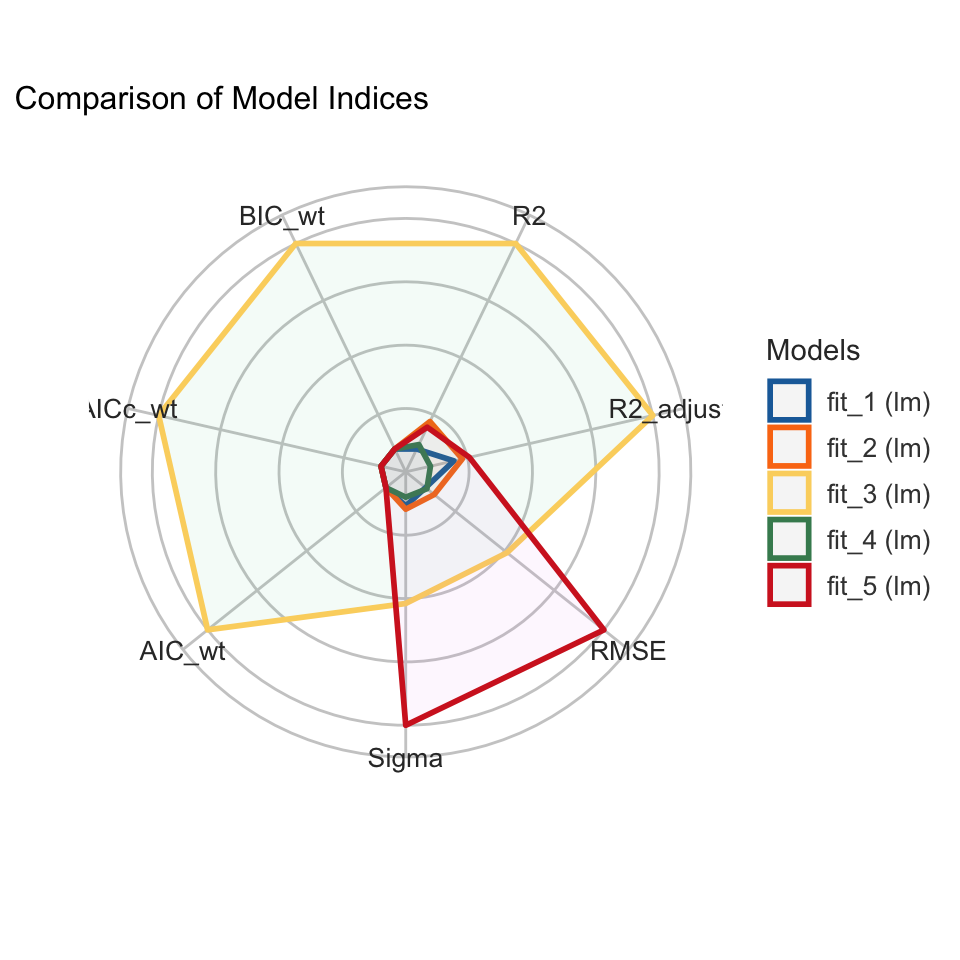
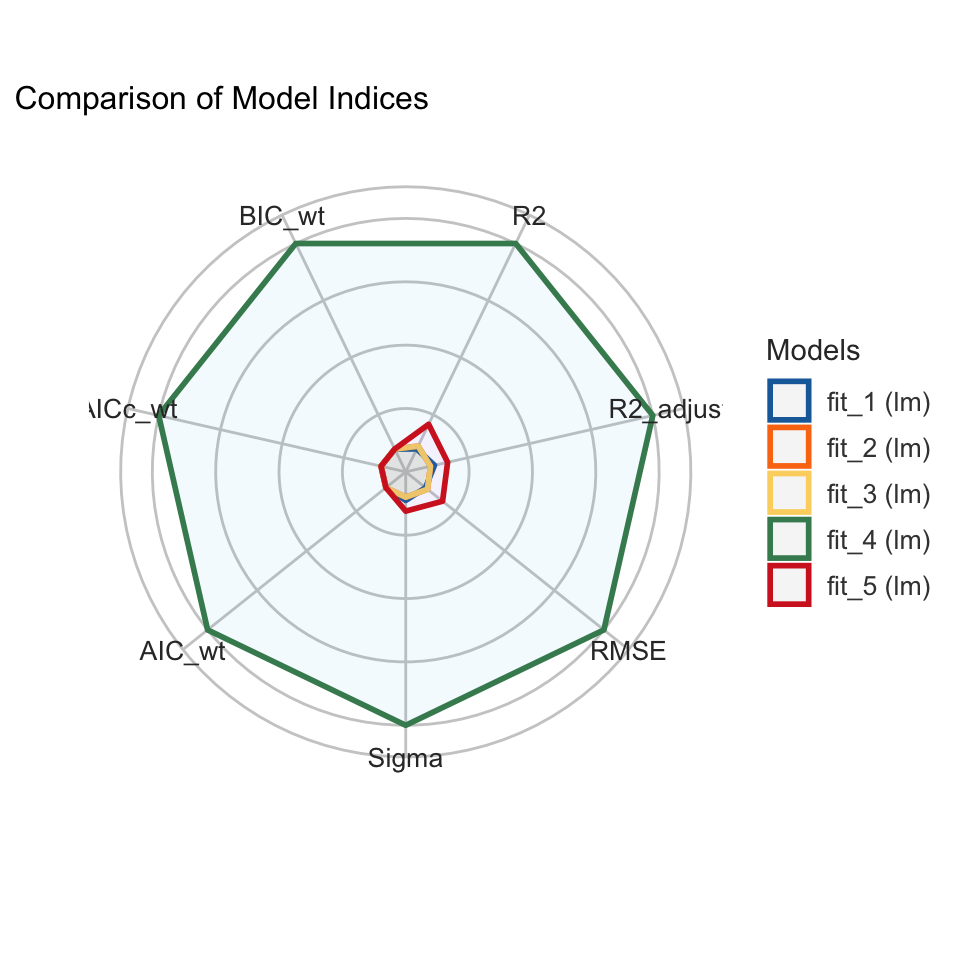
added

diff --git a/docs/stat-modeling-basic.html b/docs/stat-modeling-basic.html
@@ -898,7 +898,7 @@ window.Quarto = {
 </header>
 
 
-<p><em>Letzte Änderung am 06. August 2025 um 09:29:30</em></p>
+<p><em>Letzte Änderung am 06. August 2025 um 10:51:52</em></p>
 <blockquote class="blockquote">
 <p><em>“All models are approximations. Essentially, all models are wrong, but some are useful. However, the approximate nature of the model must always be borne in mind.” — George E. P. Box</em></p>
 </blockquote>
@@ -3692,10 +3692,10 @@ Abbildung&nbsp;45.26— Graphische Darstellung des VIF mit der Funktion <code>ch
 <details open="" class="code-fold">
 <summary>R Code [zeigen / verbergen]</summary>
 <div class="sourceCode cell-code" id="cb118"><pre class="sourceCode r code-with-copy"><code class="sourceCode r"><span id="cb118-1"><a href="#cb118-1" aria-hidden="true" tabindex="-1"></a>fit_1 <span class="ot">&lt;-</span> <span class="fu">lm</span>(jump_length <span class="sc">~</span> feeding, <span class="at">data =</span> flea_model_tbl)</span>
-<span id="cb118-2"><a href="#cb118-2" aria-hidden="true" tabindex="-1"></a>fit_2 <span class="ot">&lt;-</span> <span class="fu">lm</span>(jump_length <span class="sc">~</span> feeding <span class="sc">+</span> stage <span class="sc">+</span> feeding<span class="sc">:</span>stage, <span class="at">data =</span> flea_model_tbl)</span>
-<span id="cb118-3"><a href="#cb118-3" aria-hidden="true" tabindex="-1"></a>fit_3 <span class="ot">&lt;-</span> <span class="fu">lm</span>(jump_length <span class="sc">~</span> feeding <span class="sc">+</span> weight <span class="sc">+</span> count_leg, <span class="at">data =</span> flea_model_tbl)</span>
-<span id="cb118-4"><a href="#cb118-4" aria-hidden="true" tabindex="-1"></a>fit_4 <span class="ot">&lt;-</span> <span class="fu">lm</span>(jump_length <span class="sc">~</span> feeding <span class="sc">+</span> stage <span class="sc">+</span> M <span class="sc">+</span> CRP <span class="sc">+</span> Mg, <span class="at">data =</span> flea_model_tbl)</span>
-<span id="cb118-5"><a href="#cb118-5" aria-hidden="true" tabindex="-1"></a>fit_5 <span class="ot">&lt;-</span> <span class="fu">lm</span>(<span class="fu">log</span>(jump_length) <span class="sc">~</span> feeding <span class="sc">+</span> stage, <span class="at">data =</span> flea_model_tbl)</span></code><button title="In die Zwischenablage kopieren" class="code-copy-button"><i class="bi"></i></button></pre></div>
+<span id="cb118-2"><a href="#cb118-2" aria-hidden="true" tabindex="-1"></a>fit_2 <span class="ot">&lt;-</span> <span class="fu">lm</span>(jump_length <span class="sc">~</span> feeding <span class="sc">+</span> stage, <span class="at">data =</span> flea_model_tbl)</span>
+<span id="cb118-3"><a href="#cb118-3" aria-hidden="true" tabindex="-1"></a>fit_3 <span class="ot">&lt;-</span> <span class="fu">lm</span>(jump_length <span class="sc">~</span> feeding <span class="sc">+</span> weight, <span class="at">data =</span> flea_model_tbl)</span>
+<span id="cb118-4"><a href="#cb118-4" aria-hidden="true" tabindex="-1"></a>fit_4 <span class="ot">&lt;-</span> <span class="fu">lm</span>(jump_length <span class="sc">~</span> feeding <span class="sc">+</span> stage <span class="sc">+</span> count_leg, <span class="at">data =</span> flea_model_tbl)</span>
+<span id="cb118-5"><a href="#cb118-5" aria-hidden="true" tabindex="-1"></a>fit_5 <span class="ot">&lt;-</span> <span class="fu">lm</span>(jump_length <span class="sc">~</span> feeding <span class="sc">+</span> stage <span class="sc">+</span> weight, <span class="at">data =</span> flea_model_tbl)</span></code><button title="In die Zwischenablage kopieren" class="code-copy-button"><i class="bi"></i></button></pre></div>
 </details>
 </div>
 <p>Als Ergänzung zum Bestimmtheitsmaß <span class="math inline">\(R^2\)</span> wollen wir uns noch das <em>Akaike information criterion</em> (abk. <span class="math inline">\(AIC\)</span>) anschauen. Du kannst auch das <span class="math inline">\(R^2\)</span> bzw. das <span class="math inline">\(R^2_{adj}\)</span> für die Modellauswahl nehmen. Das <span class="math inline">\(AIC\)</span> ist neuer und auch für komplexere Modelle geeignet. Es gilt hierbei, je kleiner das <span class="math inline">\(AIC\)</span> ist, desto besser ist das <span class="math inline">\(AIC\)</span>. Wir wollen also Modelle haben, die ein kleines <span class="math inline">\(AIC\)</span> haben. Wir gehen jetzt nicht auf die Berechnung der <span class="math inline">\(AIC\)</span>’s für jedes Modell ein. Wir erhalten nur ein <span class="math inline">\(AIC\)</span> für jedes Modell. Die einzelnen Werte des <span class="math inline">\(AIC\)</span>’s sagen <em>nichts</em> aus. Ein <span class="math inline">\(AIC\)</span> ist ein mathematisches Konstrukt. Wir können aber verwandte Modelle mit dem <span class="math inline">\(AIC\)</span> untereinander vergleichen. Daher berechnen wir ein <span class="math inline">\(\Delta\)</span> über die <span class="math inline">\(AIC\)</span>. Dafür nehmen wir das Modell mit dem niedrigsten <span class="math inline">\(AIC\)</span> und berechnen die jeweiligen Differenzen zu den anderen <span class="math inline">\(i\)</span> Modellen. In unserem Beispiel ist <span class="math inline">\(i\)</span> dann gleich fünf, da wir fünf Modelle haben.</p>
@@ -3742,19 +3742,19 @@ p_i = \exp\left(\cfrac{-\Delta_i}{2}\right)
 
 Name  | Model |    R2 | R2 (adj.) |   RMSE |  Sigma | AIC weights
 -----------------------------------------------------------------
-fit_3 |    lm | 0.774 |     0.753 | 15.928 | 16.829 |       1.000
-fit_5 |    lm | 0.301 |     0.254 |  0.271 |  0.283 |    9.66e-09
-fit_2 |    lm | 0.316 |     0.234 | 27.715 | 29.628 |    1.05e-12
-fit_1 |    lm | 0.245 |     0.212 | 29.112 | 30.067 |    1.98e-12
-fit_4 |    lm | 0.256 |     0.148 | 28.891 | 31.260 |    5.24e-14
+fit_4 |    lm | 0.770 |     0.749 | 16.061 | 16.970 |       1.000
+fit_5 |    lm | 0.308 |     0.244 | 27.867 | 29.443 |    3.26e-12
+fit_1 |    lm | 0.245 |     0.212 | 29.112 | 30.067 |    2.96e-12
+fit_2 |    lm | 0.253 |     0.202 | 28.966 | 30.254 |    1.38e-12
+fit_3 |    lm | 0.253 |     0.202 | 28.967 | 30.255 |    1.38e-12
 
 Name  | AICc weights | BIC weights | Performance-Score
 ------------------------------------------------------
-fit_3 |        1.000 |       1.000 |            84.61%
-fit_5 |     1.32e-08 |    2.46e-08 |            32.59%
-fit_2 |     7.19e-13 |    4.11e-13 |             5.40%
-fit_1 |     3.47e-12 |    1.29e-11 |             2.06%
-fit_4 |     2.30e-14 |    8.06e-15 |             0.42%</code></pre>
+fit_4 |        1.000 |       1.000 |           100.00%
+fit_5 |     3.26e-12 |    3.26e-12 |             5.06%
+fit_1 |     5.17e-12 |    1.92e-11 |             0.46%
+fit_2 |     1.89e-12 |    3.53e-12 |             0.37%
+fit_3 |     1.88e-12 |    3.52e-12 |             0.36%</code></pre>
 </div>
 </div>
 <p>Anhand der Ausgabe der Funktion <code>compare_performance()</code> sehen wir, dass unser Modell <code>fit_2</code> das beste Modell ist. Zwar ist die Streuung der Residuen nicht die Kleinste aller Modelle (<code>Sigma</code> = 1.933) aber wir haben ein hohes <span class="math inline">\(R^2_{adj}\)</span> und auch ein kleines <span class="math inline">\(AIC\)</span>. Wir würden damit sagen, dass das Modell <code>fit_2</code> mit den Variablen <code>animal</code> und <code>sex</code> für <span class="math inline">\(x\)</span> das Outcome <code>jump_length</code> am besten statistisch beschreibt.</p>
@@ -3780,14 +3780,268 @@ Abbildung&nbsp;45.27— Graphische Darstellung der Funktion <code>compare_perfor
 <div class="sourceCode cell-code" id="cb123"><pre class="sourceCode r code-with-copy"><code class="sourceCode r"><span id="cb123-1"><a href="#cb123-1" aria-hidden="true" tabindex="-1"></a><span class="fu">test_vuong</span>(fit_1, fit_2, fit_3, fit_4, fit_5)</span></code><button title="In die Zwischenablage kopieren" class="code-copy-button"><i class="bi"></i></button></pre></div>
 </details>
 <div class="cell-output cell-output-stdout">
-<pre><code>Name  | Model | Omega2 | p (Omega2) |     LR | p (LR)
------------------------------------------------------
-fit_1 |    lm |        |            |        |       
-fit_2 |    lm |   0.07 |     0.429  |  -1.32 | 0.093 
-fit_3 |    lm |   1.83 |     &lt; .001 |  -3.09 | 0.001 
-fit_4 |    lm |   0.01 |     0.900  |  -0.46 | 0.322 
-fit_5 |    lm |   0.41 |     &lt; .001 | -50.60 | &lt; .001
+<pre><code>Name  | Model |   Omega2 | p (Omega2) |    LR | p (LR)
+------------------------------------------------------
+fit_1 |    lm |          |            |       |       
+fit_2 |    lm | 8.56e-03 |     0.517  | -0.38 |  0.353
+fit_3 |    lm | 5.73e-03 |     0.217  | -0.46 |  0.324
+fit_4 |    lm |     1.81 |     &lt; .001 | -3.06 |  0.001
+fit_5 |    lm |     0.06 |     0.160  | -1.19 |  0.117
 Each model is compared to fit_1.</code></pre>
+</div>
+</div>
+<div class="cell">
+<div id="tbl-modelsummary-table-comp" class="cell quarto-float quarto-figure quarto-figure-center anchored">
+<figure class="quarto-float quarto-float-tbl figure">
+<figcaption class="quarto-float-caption-top quarto-float-caption quarto-float-tbl" id="tbl-modelsummary-table-comp-caption-0ceaefa1-69ba-4598-a22c-09a6ac19f8ca">
+Tabelle&nbsp;45.9— Interecept entfernt.
+</figcaption>
+<div aria-describedby="tbl-modelsummary-table-comp-caption-0ceaefa1-69ba-4598-a22c-09a6ac19f8ca">
+<div class="cell-output-display">
+<!-- preamble start -->
+
+    <script>
+
+      function styleCell_6105d3nqhgbq5m4ashk9(i, j, css_id) {
+          var table = document.getElementById("tinytable_6105d3nqhgbq5m4ashk9");
+          var cell = table.rows[i]?.cells[j];  // Safe navigation to avoid errors
+          if (cell) {
+              console.log(`Styling cell at (${i}, ${j}) with class ${css_id}`);
+              cell.classList.add(css_id);
+          } else {
+              console.warn(`Cell at (${i}, ${j}) not found.`);
+          }
+      }
+      function insertSpanRow(i, colspan, content) {
+        var table = document.getElementById('tinytable_6105d3nqhgbq5m4ashk9');
+        var newRow = table.insertRow(i);
+        var newCell = newRow.insertCell(0);
+        newCell.setAttribute("colspan", colspan);
+        // newCell.innerText = content;
+        // this may be unsafe, but innerText does not interpret <br>
+        newCell.innerHTML = content;
+      }
+      function spanCell_6105d3nqhgbq5m4ashk9(i, j, rowspan, colspan) {
+        var table = document.getElementById("tinytable_6105d3nqhgbq5m4ashk9");
+        const targetRow = table.rows[i];
+        const targetCell = targetRow.cells[j];
+        for (let r = 0; r < rowspan; r++) {
+          // Only start deleting cells to the right for the first row (r == 0)
+          if (r === 0) {
+            // Delete cells to the right of the target cell in the first row
+            for (let c = colspan - 1; c > 0; c--) {
+              if (table.rows[i + r].cells[j + c]) {
+                table.rows[i + r].deleteCell(j + c);
+              }
+            }
+          }
+          // For rows below the first, delete starting from the target column
+          if (r > 0) {
+            for (let c = colspan - 1; c >= 0; c--) {
+              if (table.rows[i + r] && table.rows[i + r].cells[j]) {
+                table.rows[i + r].deleteCell(j);
+              }
+            }
+          }
+        }
+        // Set rowspan and colspan of the target cell
+        targetCell.rowSpan = rowspan;
+        targetCell.colSpan = colspan;
+      }
+      // tinytable span after
+      window.addEventListener('load', function () {
+          var cellsToStyle = [
+            // tinytable style arrays after
+          { positions: [ { i: 0, j: 4 }, { i: 0, j: 5 }, { i: 0, j: 2 }, { i: 0, j: 3 },  ], css_id: 'tinytable_css_7gnqgj83hlpmm5bql009',}, 
+          { positions: [ { i: 17, j: 4 }, { i: 17, j: 1 }, { i: 17, j: 3 }, { i: 17, j: 5 }, { i: 17, j: 2 },  ], css_id: 'tinytable_css_73q4n59es767vi5wwh22',}, 
+          { positions: [ { i: 11, j: 1 }, { i: 11, j: 5 }, { i: 11, j: 4 }, { i: 11, j: 2 }, { i: 11, j: 3 },  ], css_id: 'tinytable_css_ip8uutc8g5xlgg2m34ty',}, 
+          { positions: [ { i: 4, j: 1 }, { i: 3, j: 1 }, { i: 8, j: 1 }, { i: 9, j: 1 }, { i: 6, j: 1 }, { i: 6, j: 2 }, { i: 12, j: 1 }, { i: 13, j: 1 }, { i: 14, j: 1 }, { i: 2, j: 1 }, { i: 16, j: 1 }, { i: 12, j: 2 }, { i: 5, j: 1 }, { i: 14, j: 2 }, { i: 7, j: 1 }, { i: 3, j: 2 }, { i: 4, j: 2 }, { i: 10, j: 1 }, { i: 14, j: 3 }, { i: 7, j: 2 }, { i: 8, j: 2 }, { i: 9, j: 2 }, { i: 15, j: 1 }, { i: 6, j: 3 }, { i: 7, j: 3 }, { i: 13, j: 2 }, { i: 9, j: 3 }, { i: 2, j: 2 }, { i: 16, j: 2 }, { i: 12, j: 3 }, { i: 5, j: 2 }, { i: 9, j: 4 }, { i: 2, j: 3 }, { i: 3, j: 3 }, { i: 4, j: 3 }, { i: 10, j: 2 }, { i: 14, j: 4 }, { i: 2, j: 4 }, { i: 8, j: 3 }, { i: 4, j: 4 }, { i: 15, j: 2 }, { i: 6, j: 4 }, { i: 7, j: 4 }, { i: 13, j: 3 }, { i: 4, j: 5 }, { i: 15, j: 3 }, { i: 16, j: 3 }, { i: 12, j: 4 }, { i: 5, j: 3 }, { i: 9, j: 5 }, { i: 15, j: 4 }, { i: 3, j: 4 }, { i: 12, j: 5 }, { i: 10, j: 3 }, { i: 14, j: 5 }, { i: 2, j: 5 }, { i: 8, j: 4 }, { i: 13, j: 4 }, { i: 10, j: 4 }, { i: 6, j: 5 }, { i: 7, j: 5 }, { i: 3, j: 5 }, { i: 5, j: 4 }, { i: 10, j: 5 }, { i: 16, j: 4 }, { i: 8, j: 5 }, { i: 5, j: 5 }, { i: 15, j: 5 }, { i: 16, j: 5 }, { i: 13, j: 5 },  ], css_id: 'tinytable_css_256gmjnud2moht7lbbk7',}, 
+          { positions: [ { i: 0, j: 1 },  ], css_id: 'tinytable_css_kupvt9ytlk1muzidyhlq',}, 
+          { positions: [ { i: 1, j: 1 }, { i: 1, j: 2 }, { i: 1, j: 4 }, { i: 1, j: 5 }, { i: 1, j: 3 },  ], css_id: 'tinytable_css_1hm3ziftb30ethwe2pky',}, 
+          { positions: [ { i: 17, j: 0 },  ], css_id: 'tinytable_css_yuum7iu0rq6t8luq9omo',}, 
+          { positions: [ { i: 11, j: 0 },  ], css_id: 'tinytable_css_0vown1335m5wqgnx8j1w',}, 
+          { positions: [ { i: 2, j: 0 }, { i: 3, j: 0 }, { i: 4, j: 0 }, { i: 5, j: 0 }, { i: 6, j: 0 }, { i: 7, j: 0 }, { i: 8, j: 0 }, { i: 9, j: 0 }, { i: 10, j: 0 }, { i: 15, j: 0 }, { i: 12, j: 0 }, { i: 13, j: 0 }, { i: 14, j: 0 }, { i: 16, j: 0 },  ], css_id: 'tinytable_css_ul83ldlc0elyc26zxqil',}, 
+          { positions: [ { i: 0, j: 0 },  ], css_id: 'tinytable_css_0vjb6xoxn9ckxqp1a5vj',}, 
+          { positions: [ { i: 1, j: 0 },  ], css_id: 'tinytable_css_cjtmbqvhr8zl86mflmlt',}, 
+          ];
+
+          // Loop over the arrays to style the cells
+          cellsToStyle.forEach(function (group) {
+              group.positions.forEach(function (cell) {
+                  styleCell_6105d3nqhgbq5m4ashk9(cell.i, cell.j, group.css_id);
+              });
+          });
+      });
+    </script>
+
+    <style>
+      /* tinytable css entries after */
+      .table td.tinytable_css_7gnqgj83hlpmm5bql009, .table th.tinytable_css_7gnqgj83hlpmm5bql009 { text-align: center; border-top: solid #d3d8dc 0.1em; text-align: center; }
+      .table td.tinytable_css_73q4n59es767vi5wwh22, .table th.tinytable_css_73q4n59es767vi5wwh22 { text-align: center; border-bottom: solid #d3d8dc 0.1em; }
+      .table td.tinytable_css_ip8uutc8g5xlgg2m34ty, .table th.tinytable_css_ip8uutc8g5xlgg2m34ty { text-align: center; border-bottom: solid black 0.05em; }
+      .table td.tinytable_css_256gmjnud2moht7lbbk7, .table th.tinytable_css_256gmjnud2moht7lbbk7 { text-align: center; }
+      .table td.tinytable_css_kupvt9ytlk1muzidyhlq, .table th.tinytable_css_kupvt9ytlk1muzidyhlq { text-align: center; border-top: solid #d3d8dc 0.1em; text-align: center; border-bottom: solid #d3d8dc 0.05em; }
+      .table td.tinytable_css_1hm3ziftb30ethwe2pky, .table th.tinytable_css_1hm3ziftb30ethwe2pky { text-align: center; border-bottom: solid #d3d8dc 0.05em; }
+      .table td.tinytable_css_yuum7iu0rq6t8luq9omo, .table th.tinytable_css_yuum7iu0rq6t8luq9omo { text-align: left; border-bottom: solid #d3d8dc 0.1em; }
+      .table td.tinytable_css_0vown1335m5wqgnx8j1w, .table th.tinytable_css_0vown1335m5wqgnx8j1w { text-align: left; border-bottom: solid black 0.05em; }
+      .table td.tinytable_css_ul83ldlc0elyc26zxqil, .table th.tinytable_css_ul83ldlc0elyc26zxqil { text-align: left; }
+      .table td.tinytable_css_0vjb6xoxn9ckxqp1a5vj, .table th.tinytable_css_0vjb6xoxn9ckxqp1a5vj { text-align: left; border-top: solid #d3d8dc 0.1em; text-align: center; }
+      .table td.tinytable_css_cjtmbqvhr8zl86mflmlt, .table th.tinytable_css_cjtmbqvhr8zl86mflmlt { text-align: left; border-bottom: solid #d3d8dc 0.05em; }
+    </style>
+    <div class="container">
+      <table class="table table-borderless" id="tinytable_6105d3nqhgbq5m4ashk9" style="width: auto; margin-left: auto; margin-right: auto;" data-quarto-disable-processing="true">
+        <thead>
+<tr>
+<th scope="col" align="center" colspan="1"> </th>
+<th scope="col" align="center" colspan="5">Model</th>
+</tr>
+        
+              <tr>
+                <th scope="col"> </th>
+                <th scope="col">I</th>
+                <th scope="col">II</th>
+                <th scope="col">III</th>
+                <th scope="col">IV</th>
+                <th scope="col">V</th>
+              </tr>
+        </thead>
+        <tfoot><tr><td colspan="6">+ p &lt; 0.1, * p &lt; 0.05, ** p &lt; 0.01, *** p &lt; 0.001</td></tr></tfoot>
+        <tbody>
+                <tr>
+                  <td>Ernährung (Blut)</td>
+                  <td>37.8650***</td>
+                  <td>37.8650***</td>
+                  <td>38.6183***</td>
+                  <td>12.7067+</td>
+                  <td>41.0327***</td>
+                </tr>
+                <tr>
+                  <td></td>
+                  <td>(10.630)</td>
+                  <td>(10.696)</td>
+                  <td>(10.757)</td>
+                  <td>(6.522)</td>
+                  <td>(10.548)</td>
+                </tr>
+                <tr>
+                  <td>Ernährung (Ketchup)</td>
+                  <td>31.6888**</td>
+                  <td>31.6888**</td>
+                  <td>32.4131**</td>
+                  <td>3.0289</td>
+                  <td>34.7346**</td>
+                </tr>
+                <tr>
+                  <td></td>
+                  <td>(10.630)</td>
+                  <td>(10.696)</td>
+                  <td>(10.752)</td>
+                  <td>(6.669)</td>
+                  <td>(10.538)</td>
+                </tr>
+                <tr>
+                  <td>Entwicklung (juvenile)</td>
+                  <td></td>
+                  <td>5.8213</td>
+                  <td></td>
+                  <td>-18.2459**</td>
+                  <td>24.4063+</td>
+                </tr>
+                <tr>
+                  <td></td>
+                  <td></td>
+                  <td>(8.734)</td>
+                  <td></td>
+                  <td>(5.475)</td>
+                  <td>(13.121)</td>
+                </tr>
+                <tr>
+                  <td>Gewicht [mg]</td>
+                  <td></td>
+                  <td></td>
+                  <td>0.5390</td>
+                  <td></td>
+                  <td>2.2667+</td>
+                </tr>
+                <tr>
+                  <td></td>
+                  <td></td>
+                  <td></td>
+                  <td>(0.812)</td>
+                  <td></td>
+                  <td>(1.219)</td>
+                </tr>
+                <tr>
+                  <td>Anzahl Beinhaare</td>
+                  <td></td>
+                  <td></td>
+                  <td></td>
+                  <td>0.0986***</td>
+                  <td></td>
+                </tr>
+                <tr>
+                  <td></td>
+                  <td></td>
+                  <td></td>
+                  <td></td>
+                  <td>(0.010)</td>
+                  <td></td>
+                </tr>
+                <tr>
+                  <td>Num.Obs.</td>
+                  <td>48</td>
+                  <td>48</td>
+                  <td>48</td>
+                  <td>48</td>
+                  <td>48</td>
+                </tr>
+                <tr>
+                  <td>R2</td>
+                  <td>0.245</td>
+                  <td>0.253</td>
+                  <td>0.253</td>
+                  <td>0.770</td>
+                  <td>0.308</td>
+                </tr>
+                <tr>
+                  <td>R2 Adj.</td>
+                  <td>0.212</td>
+                  <td>0.202</td>
+                  <td>0.202</td>
+                  <td>0.749</td>
+                  <td>0.244</td>
+                </tr>
+                <tr>
+                  <td>AIC</td>
+                  <td>467.8</td>
+                  <td>469.4</td>
+                  <td>469.4</td>
+                  <td>414.8</td>
+                  <td>467.7</td>
+                </tr>
+                <tr>
+                  <td>BIC</td>
+                  <td>475.3</td>
+                  <td>478.7</td>
+                  <td>478.7</td>
+                  <td>426.0</td>
+                  <td>478.9</td>
+                </tr>
+                <tr>
+                  <td>RMSE</td>
+                  <td>29.11</td>
+                  <td>28.97</td>
+                  <td>28.97</td>
+                  <td>16.06</td>
+                  <td>27.87</td>
+                </tr>
+        </tbody>
+      </table>
+    </div>
+<!-- hack to avoid NA insertion in last line -->
+</div>
+</div>
+</figure>
 </div>
 </div>
 </section>
@@ -5797,10 +6051,10 @@ window.document.addEventListener("DOMContentLoaded", function (event) {
 <span id="cb125-1646"><a href="#cb125-1646" aria-hidden="true" tabindex="-1"></a></span>
 <span id="cb125-1649"><a href="#cb125-1649" aria-hidden="true" tabindex="-1"></a><span class="in">```{r}</span></span>
 <span id="cb125-1650"><a href="#cb125-1650" aria-hidden="true" tabindex="-1"></a>fit_1 <span class="ot">&lt;-</span> <span class="fu">lm</span>(jump_length <span class="sc">~</span> feeding, <span class="at">data =</span> flea_model_tbl)</span>
-<span id="cb125-1651"><a href="#cb125-1651" aria-hidden="true" tabindex="-1"></a>fit_2 <span class="ot">&lt;-</span> <span class="fu">lm</span>(jump_length <span class="sc">~</span> feeding <span class="sc">+</span> stage <span class="sc">+</span> feeding<span class="sc">:</span>stage, <span class="at">data =</span> flea_model_tbl)</span>
-<span id="cb125-1652"><a href="#cb125-1652" aria-hidden="true" tabindex="-1"></a>fit_3 <span class="ot">&lt;-</span> <span class="fu">lm</span>(jump_length <span class="sc">~</span> feeding <span class="sc">+</span> weight <span class="sc">+</span> count_leg, <span class="at">data =</span> flea_model_tbl)</span>
-<span id="cb125-1653"><a href="#cb125-1653" aria-hidden="true" tabindex="-1"></a>fit_4 <span class="ot">&lt;-</span> <span class="fu">lm</span>(jump_length <span class="sc">~</span> feeding <span class="sc">+</span> stage <span class="sc">+</span> M <span class="sc">+</span> CRP <span class="sc">+</span> Mg, <span class="at">data =</span> flea_model_tbl)</span>
-<span id="cb125-1654"><a href="#cb125-1654" aria-hidden="true" tabindex="-1"></a>fit_5 <span class="ot">&lt;-</span> <span class="fu">lm</span>(<span class="fu">log</span>(jump_length) <span class="sc">~</span> feeding <span class="sc">+</span> stage, <span class="at">data =</span> flea_model_tbl)</span>
+<span id="cb125-1651"><a href="#cb125-1651" aria-hidden="true" tabindex="-1"></a>fit_2 <span class="ot">&lt;-</span> <span class="fu">lm</span>(jump_length <span class="sc">~</span> feeding <span class="sc">+</span> stage, <span class="at">data =</span> flea_model_tbl)</span>
+<span id="cb125-1652"><a href="#cb125-1652" aria-hidden="true" tabindex="-1"></a>fit_3 <span class="ot">&lt;-</span> <span class="fu">lm</span>(jump_length <span class="sc">~</span> feeding <span class="sc">+</span> weight, <span class="at">data =</span> flea_model_tbl)</span>
+<span id="cb125-1653"><a href="#cb125-1653" aria-hidden="true" tabindex="-1"></a>fit_4 <span class="ot">&lt;-</span> <span class="fu">lm</span>(jump_length <span class="sc">~</span> feeding <span class="sc">+</span> stage <span class="sc">+</span> count_leg, <span class="at">data =</span> flea_model_tbl)</span>
+<span id="cb125-1654"><a href="#cb125-1654" aria-hidden="true" tabindex="-1"></a>fit_5 <span class="ot">&lt;-</span> <span class="fu">lm</span>(jump_length <span class="sc">~</span> feeding <span class="sc">+</span> stage <span class="sc">+</span> weight, <span class="at">data =</span> flea_model_tbl)</span>
 <span id="cb125-1655"><a href="#cb125-1655" aria-hidden="true" tabindex="-1"></a><span class="in">```</span></span>
 <span id="cb125-1656"><a href="#cb125-1656" aria-hidden="true" tabindex="-1"></a></span>
 <span id="cb125-1657"><a href="#cb125-1657" aria-hidden="true" tabindex="-1"></a>Als Ergänzung zum Bestimmtheitsmaß $R^2$ wollen wir uns noch das *Akaike information criterion* (abk. $AIC$) anschauen. Du kannst auch das $R^2$ bzw. das $R^2_{adj}$ für die Modellauswahl nehmen. Das $AIC$ ist neuer und auch für komplexere Modelle geeignet. Es gilt hierbei, je kleiner das $AIC$ ist, desto besser ist das $AIC$. Wir wollen also Modelle haben, die ein kleines $AIC$ haben. Wir gehen jetzt nicht auf die Berechnung der $AIC$'s für jedes Modell ein. Wir erhalten nur ein $AIC$ für jedes Modell. Die einzelnen Werte des $AIC$'s sagen *nichts* aus. Ein $AIC$ ist ein mathematisches Konstrukt. Wir können aber verwandte Modelle mit dem $AIC$ untereinander vergleichen. Daher berechnen wir ein $\Delta$ über die $AIC$. Dafür nehmen wir das Modell mit dem niedrigsten $AIC$ und berechnen die jeweiligen Differenzen zu den anderen $i$ Modellen. In unserem Beispiel ist $i$ dann gleich fünf, da wir fünf Modelle haben.</span>
@@ -5864,7 +6118,27 @@ window.document.addEventListener("DOMContentLoaded", function (event) {
 <span id="cb125-1723"><a href="#cb125-1723" aria-hidden="true" tabindex="-1"></a><span class="fu">test_vuong</span>(fit_1, fit_2, fit_3, fit_4, fit_5)</span>
 <span id="cb125-1724"><a href="#cb125-1724" aria-hidden="true" tabindex="-1"></a><span class="in">```</span></span>
 <span id="cb125-1725"><a href="#cb125-1725" aria-hidden="true" tabindex="-1"></a></span>
-<span id="cb125-1726"><a href="#cb125-1726" aria-hidden="true" tabindex="-1"></a><span class="fu">## Referenzen {.unnumbered}</span></span>
+<span id="cb125-1728"><a href="#cb125-1728" aria-hidden="true" tabindex="-1"></a><span class="in">```{r}</span></span>
+<span id="cb125-1729"><a href="#cb125-1729" aria-hidden="true" tabindex="-1"></a><span class="co">#| echo: false</span></span>
+<span id="cb125-1730"><a href="#cb125-1730" aria-hidden="true" tabindex="-1"></a><span class="co">#| message: false</span></span>
+<span id="cb125-1731"><a href="#cb125-1731" aria-hidden="true" tabindex="-1"></a><span class="co">#| warning: false</span></span>
+<span id="cb125-1732"><a href="#cb125-1732" aria-hidden="true" tabindex="-1"></a><span class="co">#| label: tbl-modelsummary-table-comp</span></span>
+<span id="cb125-1733"><a href="#cb125-1733" aria-hidden="true" tabindex="-1"></a><span class="co">#| tbl-cap: "Interecept entfernt."</span></span>
+<span id="cb125-1734"><a href="#cb125-1734" aria-hidden="true" tabindex="-1"></a></span>
+<span id="cb125-1735"><a href="#cb125-1735" aria-hidden="true" tabindex="-1"></a><span class="fu">modelsummary</span>(<span class="fu">lst</span>(<span class="st">"I"</span> <span class="ot">=</span> fit_1, <span class="st">"II"</span> <span class="ot">=</span> fit_2, <span class="st">"III"</span> <span class="ot">=</span> fit_3,</span>
+<span id="cb125-1736"><a href="#cb125-1736" aria-hidden="true" tabindex="-1"></a>                 <span class="st">"IV"</span> <span class="ot">=</span> fit_4, <span class="st">"V"</span> <span class="ot">=</span> fit_5), </span>
+<span id="cb125-1737"><a href="#cb125-1737" aria-hidden="true" tabindex="-1"></a>             <span class="at">fmt =</span> <span class="fu">fmt_statistic</span>(<span class="at">estimate =</span> <span class="dv">4</span>), </span>
+<span id="cb125-1738"><a href="#cb125-1738" aria-hidden="true" tabindex="-1"></a>             <span class="at">coef_map =</span> <span class="fu">c</span>(<span class="st">"intercept"</span> <span class="ot">=</span> <span class="st">"(Intercept)"</span>,</span>
+<span id="cb125-1739"><a href="#cb125-1739" aria-hidden="true" tabindex="-1"></a>                          <span class="st">"feedingblood"</span> <span class="ot">=</span> <span class="st">"Ernährung (Blut)"</span>,</span>
+<span id="cb125-1740"><a href="#cb125-1740" aria-hidden="true" tabindex="-1"></a>                          <span class="st">"feedingketchup"</span> <span class="ot">=</span> <span class="st">"Ernährung (Ketchup)"</span>,</span>
+<span id="cb125-1741"><a href="#cb125-1741" aria-hidden="true" tabindex="-1"></a>                          <span class="st">"stagejuvenile"</span> <span class="ot">=</span> <span class="st">"Entwicklung (juvenile)"</span>,</span>
+<span id="cb125-1742"><a href="#cb125-1742" aria-hidden="true" tabindex="-1"></a>                          <span class="st">"weight"</span> <span class="ot">=</span> <span class="st">" Gewicht [mg]"</span>,</span>
+<span id="cb125-1743"><a href="#cb125-1743" aria-hidden="true" tabindex="-1"></a>                          <span class="st">"count_leg"</span> <span class="ot">=</span> <span class="st">"Anzahl Beinhaare"</span>),</span>
+<span id="cb125-1744"><a href="#cb125-1744" aria-hidden="true" tabindex="-1"></a>             <span class="at">gof_omit =</span> <span class="st">"F|Log"</span>, <span class="at">stars =</span> <span class="cn">TRUE</span>) <span class="sc">|&gt;</span> </span>
+<span id="cb125-1745"><a href="#cb125-1745" aria-hidden="true" tabindex="-1"></a>  <span class="fu">group_tt</span>(<span class="at">j =</span> <span class="fu">list</span>(<span class="st">"Model"</span> <span class="ot">=</span> <span class="dv">2</span><span class="sc">:</span><span class="dv">6</span>))</span>
+<span id="cb125-1746"><a href="#cb125-1746" aria-hidden="true" tabindex="-1"></a><span class="in">```</span></span>
+<span id="cb125-1747"><a href="#cb125-1747" aria-hidden="true" tabindex="-1"></a></span>
+<span id="cb125-1748"><a href="#cb125-1748" aria-hidden="true" tabindex="-1"></a><span class="fu">## Referenzen {.unnumbered}</span></span>
 </code><button title="In die Zwischenablage kopieren" class="code-copy-button" data-in-quarto-modal=""><i class="bi"></i></button></pre></div>
 </div></div></div></div></div>
 </div> <!-- /content -->
